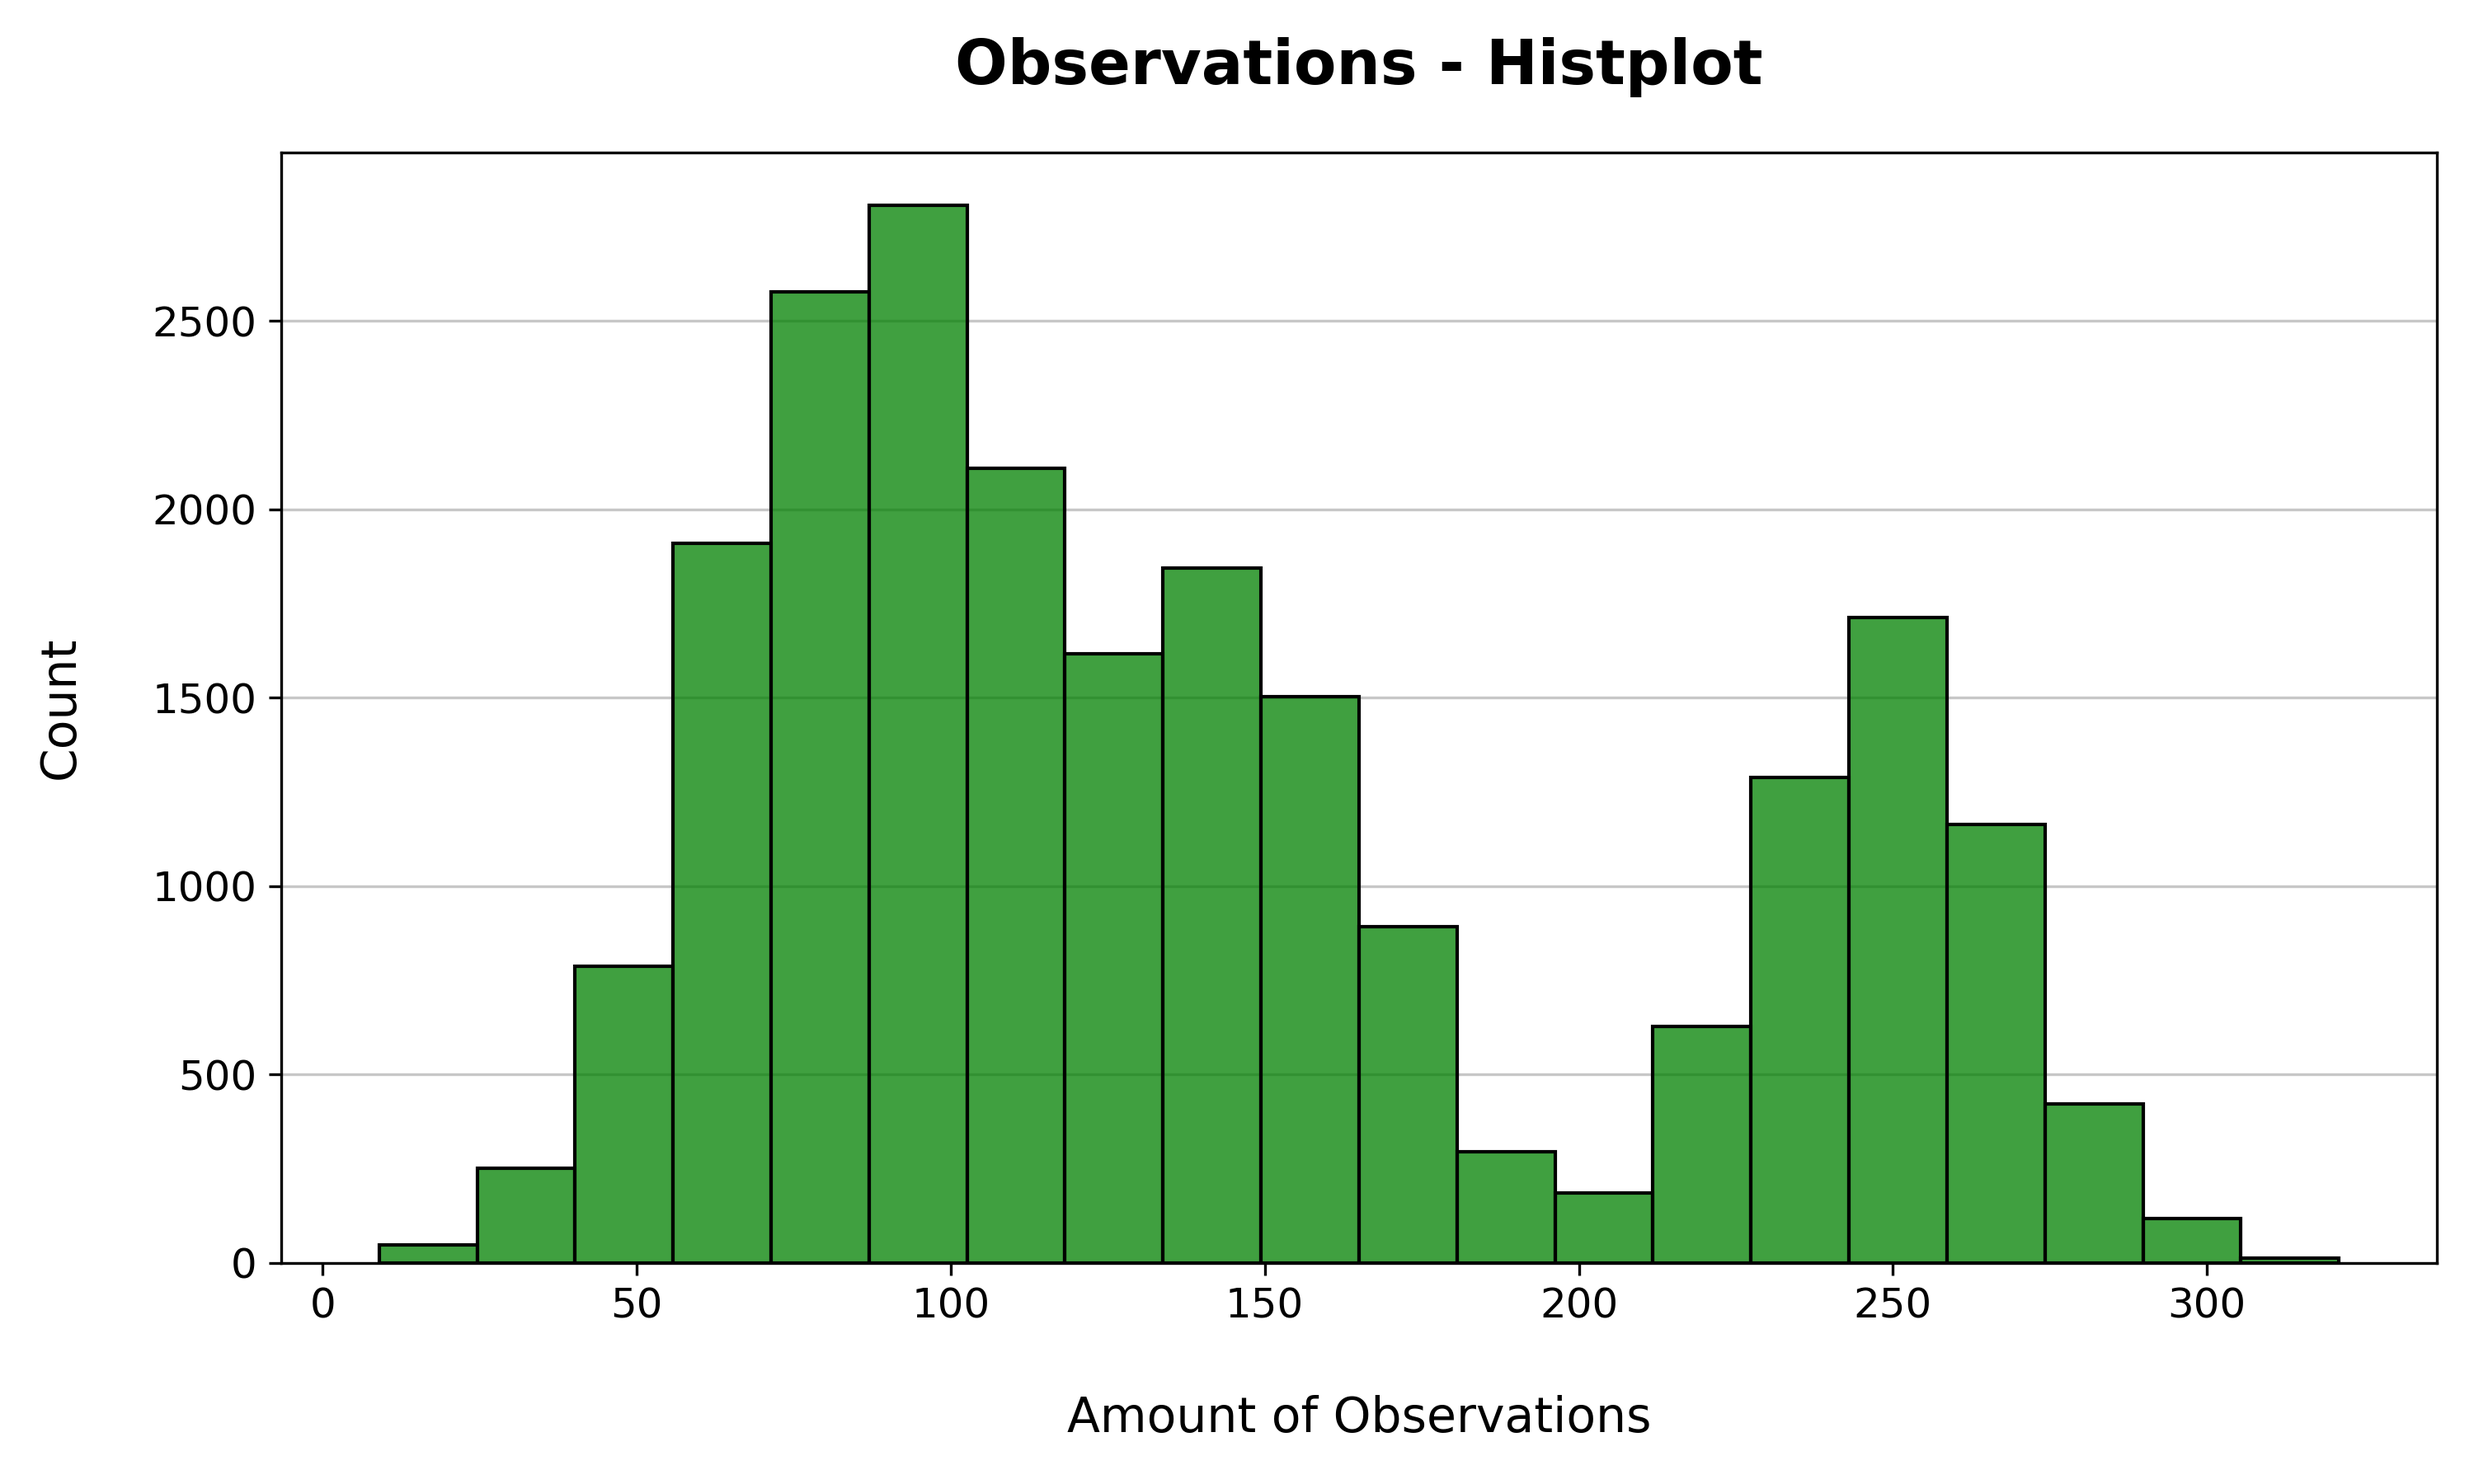
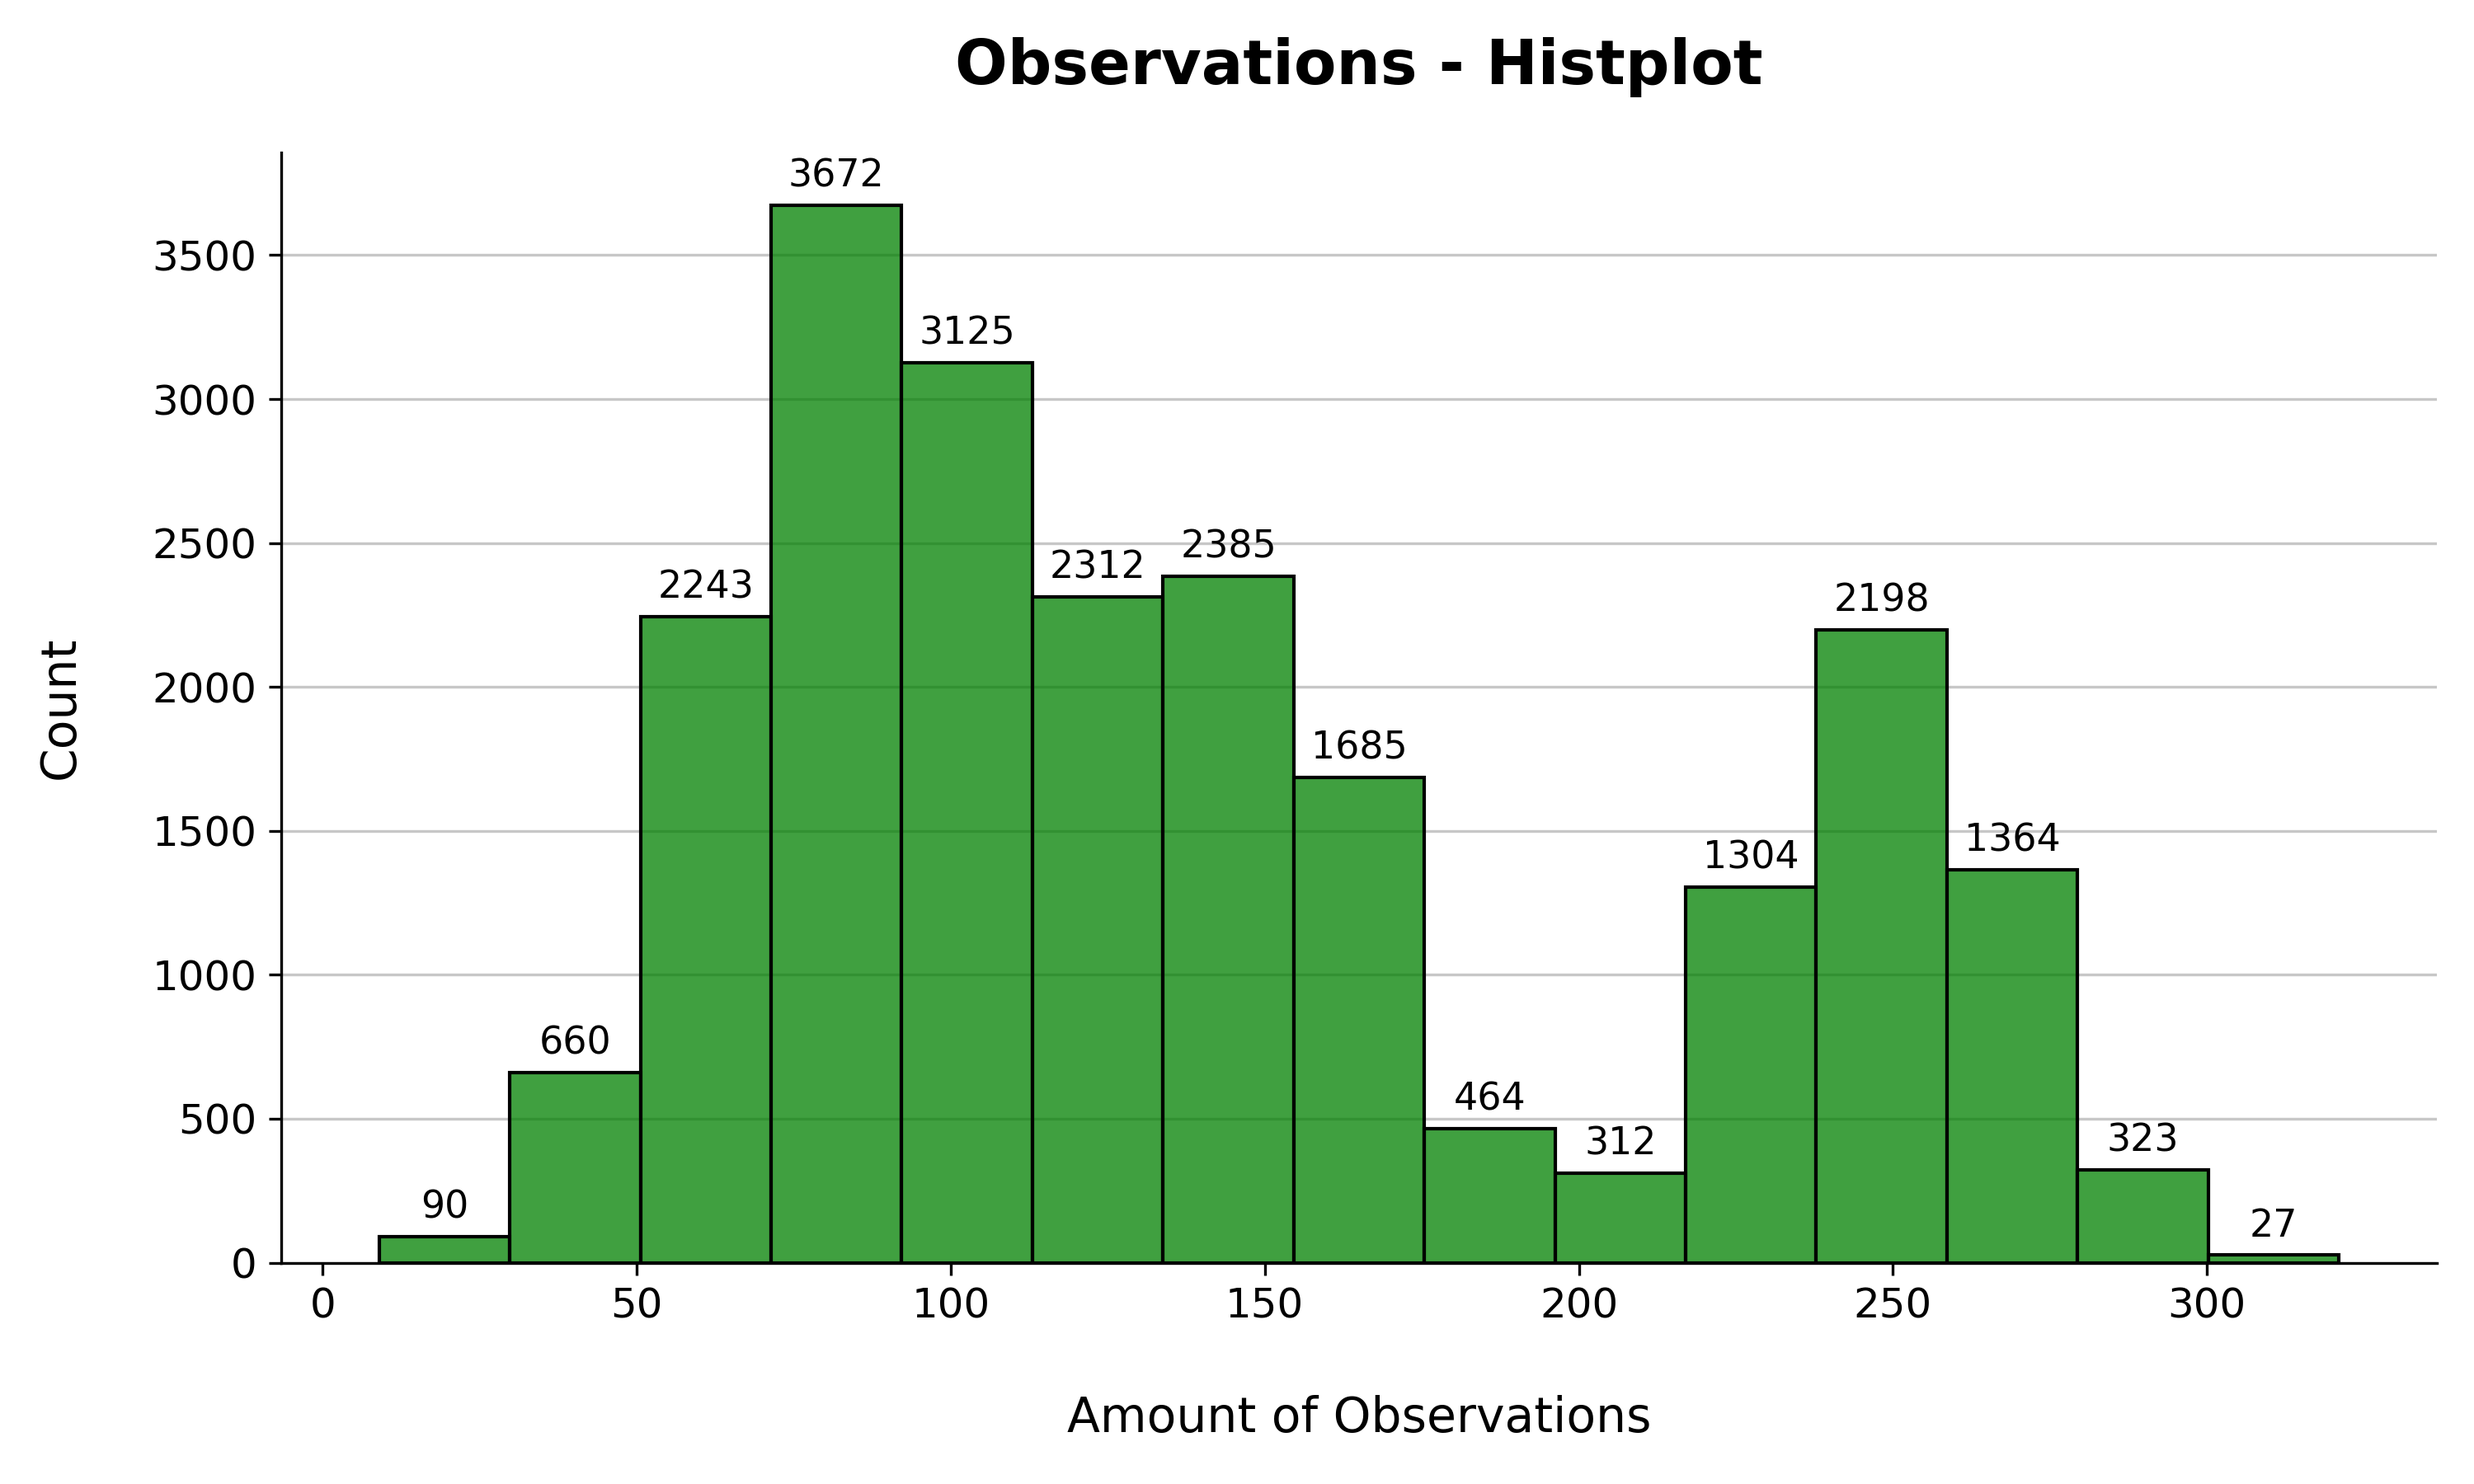
Added projec flow section in docs. Redacted the key findings. Added detailed analysis of endangered species by park

diff --git a/visualization.py b/visualization.py
@@ -14,27 +14,7 @@ in_danger_statuses = ["In Recovery", "Species of Concern", "Threatened", "Endang
 species_with_in_danger_statuses = species[species.conservation_status.isin(in_danger_statuses)]
 endangered_species = species[species.conservation_status == "Endangered"]
 
-# Neutral and engangered count
-neutral_length = len(species[species.conservation_status == "Neutral"])
-in_danger_length = len(species[species.conservation_status != "Neutral"])
-endangered_species_length = len(endangered_species)
-total_observations = observations.observations.sum()
-
-print(f"Found {in_danger_length} species with in danger status, including {endangered_species_length} endangered species. Majority of species - {neutral_length} - didn't have any conservation status.")
-print(f'Total observations: {total_observations/1e6:.1f}M')
-
-# Endangeres species analysis
-endangered_species_obs = observations[observations.scientific_name.isin(endangered_species.scientific_name)]
-endangered_species_amounts = endangered_species_obs.groupby('scientific_name')['observations'].sum().sort_values().reset_index()
-endangered_species_amounts = pd.merge(endangered_species_amounts, species[['scientific_name', 'common_names', 'category']], on='scientific_name', how='left')
-print(endangered_species_amounts)
-
-endangered_species_by_category = endangered_species_amounts.groupby('category')['observations'].count().sort_values(ascending=False).reset_index()
-print(endangered_species_by_category)
-
-
-# Total observations by park
-observations_by_park = observations.groupby('park_name').observations.sum().sort_values(ascending=False).reset_index()
+# Park names and labels
 national_parks_names_ordered = ['Yellowstone National Park', 'Yosemite National Park', 'Bryce National Park', 'Great Smoky Mountains National Park']
 national_parks_labes_ordered = ['Yellowstone', 'Yosemite', 'Bryce', 'Great Smoky Mountains']
 park_palette = {
@@ -43,6 +23,43 @@ park_palette = {
     'Bryce National Park': '#D35400',
     'Great Smoky Mountains National Park': '#2E86C1'
 }
+
+# Neutral and engangered count
+neutral_length = len(species[species.conservation_status == "Neutral"])
+in_danger_length = len(species[species.conservation_status != "Neutral"])
+endangered_species_length = len(endangered_species)
+
+# Useful aggregates
+total_observations = observations.observations.sum()
+observations_median = round(observations.observations.median(), 0)
+
+print(f"Found {in_danger_length} species with in danger status, including {endangered_species_length} endangered species. Majority of species - {neutral_length} - didn't have any conservation status.")
+print(f'Total observations: {total_observations/1e6:.1f}M')
+print(f'Observations median: {observations_median}')
+
+# Endangeres species analysis
+endangered_species_obs = observations[observations.scientific_name.isin(endangered_species.scientific_name)]
+endangered_species_amounts = endangered_species_obs.groupby('scientific_name')['observations'].sum().sort_values().reset_index()
+endangered_species_amounts = pd.merge(endangered_species_amounts, species[['scientific_name', 'common_names', 'category']], on='scientific_name', how='left')
+# print(endangered_species_amounts)
+endangered_species_by_category = endangered_species_amounts.groupby('category')['observations'].count().sort_values(ascending=False).reset_index()
+# print(endangered_species_by_category)
+
+# Endangered species analysis by park with export to csv
+endangered_species_by_park = []
+for park in national_parks_names_ordered:
+    endangered_species_obs_in_park = endangered_species_obs[endangered_species_obs.park_name == park]
+    endangered_species_amounts_in_park = endangered_species_obs_in_park.groupby(['scientific_name', 'park_name'])['observations'].sum().sort_values().reset_index()
+    endangered_species_amounts_in_park = pd.merge(endangered_species_amounts_in_park, species[['scientific_name', 'common_names', 'category']], on='scientific_name', how='left')
+    endangered_species_by_park.append(endangered_species_amounts_in_park)
+    
+endangered_species_by_park_dataframe = pd.concat(endangered_species_by_park, ignore_index=True)
+endangered_species_by_park_dataframe.to_csv('output-data/endangered_species_by_park.csv', index=False)
+
+
+# Plots
+# Total observations by park
+observations_by_park = observations.groupby('park_name').observations.sum().sort_values(ascending=False).reset_index()
 
 plt.figure(figsize=(10, 6))
 ax = plt.subplot(1, 1, 1)
@@ -196,7 +213,7 @@ plt.close()
 plt.figure(figsize=(10,6))
 ax = plt.subplot(1, 1, 1)
 
-sns.histplot(data=observations, x='observations', bins=20, color='green')
+sns.histplot(data=observations, x='observations', bins=15, color='green')
 
 plt.title('Observations - Histplot',  fontsize=18, fontweight='bold', pad=20)
 plt.xlabel('Amount of Observations', fontsize=14, labelpad=20)
@@ -206,6 +223,11 @@ ax.tick_params(axis='both', which='major', labelsize=12)
 ax.yaxis.grid(True, linestyle='-', alpha=0.7)
 ax.set_axisbelow(True)
 
+for container in ax.containers:
+    ax.bar_label(container, fmt='%1d', padding=3, fontsize=11)
+    
+sns.despine()
 plt.tight_layout()
 plt.savefig('plots/7-observations-histplot.png', dpi=300)
 plt.close()
+

diff --git a/README.md b/README.md
@@ -10,10 +10,10 @@
 
 ## Key findings
 
-1. Found 178 species with in danger status, including 15 endangered species. Majority of species - 5363 - didn't have any conservation status.
-2. Total observations: 3.2M
-3. The fewest observations of species with in danger statuses were noted for categories: Reptile, Amphibian and Non-Vascular Plant.
-3. Endangered species analysis (15 species with the most severe conservations status):
+1. Found 178 species with assigned conservation statuses, including 15 endangered (the most severe conservations status) species. Majority of species (5363) lacked any conservation status.
+2. Total amount of observations for all species rounds 3.2 million. The median of observed units for each species is equal to 124, and the most frequent observed range lies lower between 75 and 90 species.
+3. The fewest observations of species with assigned conservation statuses were noted for categories: Reptile, Amphibian and Non-Vascular Plant.
+4. Detailed endangered species analysis [^4]
 
 | id |            scientific_name    | observations  |                 common_names                    |    category    |
 |----| ----------------------------- | ------------- | ------------------------------------------------| -------------- |
@@ -43,13 +43,26 @@
 
 ## Data Analysis
 
-![Yellowstone has 1.4M observations](https://github.com/KarolZG/biodiversity-starter/blob/main/plots/1-total-observations.png "Total Observations by Park")
+![Yellowstone has 1.4M observations](https://github.com/KarolZG/blob/main/plots/1-total-observations.png "Total Observations by Park")
 ![Yellowstone with the highest 5S number values ](https://github.com/KarolZG/biodiversity-starter/blob/main/plots/2-stat-of-park-observations.png "Observation Statistics by Park")
 ![Median for observation around 120 observations ](https://github.com/KarolZG/biodiversity-starter/blob/main/plots/3-stat-of-total-observations.png "Five Number Summary for Observations")
 ![Mode for observation around 100 observations](https://github.com/KarolZG/biodiversity-starter/blob/main/plots/7-observations-histplot.png "Observations Histplot")
 ![Above 140 Species of Concern](https://github.com/KarolZG/biodiversity-starter/blob/main/plots/4-danger-scale.png "Danger Scale")
 ![Species of birds have the highest amount of species in-danger](https://github.com/KarolZG/biodiversity-starter/blob/main/plots/5-categories-in_danger.png "Total Observations by Park")
 ![Reptile, Amphibian and Non-Vascular Plant with the lowest amount of observations](https://github.com/KarolZG/biodiversity-starter/blob/main/plots/6-percentage-in_danger-by-park.png "Distribution of In-Danger Species Observations By Park")
+
+### Project Flow
+
+To optimize the running time I have splitted the project into two python files:
+
+[Data cleaning and export to new csv files](cleanup.py)
+[Data visualization](visualization.py)
+
+and to bring more structure I have created 3 directories:
+
+[Original data](https://github.com/KarolZG/biodiversity-starter/tree/main/input-data)
+[Cleaned data](https://github.com/KarolZG/biodiversity-starter/tree/main/output-data)
+[Created plots](https://github.com/KarolZG/biodiversity-starter/tree/main/plots)
 
 ### Dataframes
 1. Species:
@@ -102,7 +115,7 @@
 
 ### Footnotes
 
-[^1]: *Data source:* [Biodiversity in National Parks](https://www.codecademy.com/paths/bi-data-analyst/tracks/dsf-portfolio-project/modules/dscp-biodiversity-in-national-parks/kanban_projects/biodiversity-in-national-parks-portfolio-project "CodeAcademy Exericse Page")
+[^1]: *Data source:* [Biodiversity in National Parks](https://www.codecademy.com/paths/bi-data-analyst/tracks/dsf-portfolio-project/modules/dscp-biodiversity-in-national-parks/kanban_projects/biodiversity-in-national-parks-portfolio-project "CodeAcademy Exercise Page")
 [^2]: Nan values in conservation status might have been the result of omission, not always the lack of danger indicator. The analysis of observations amount and thresholds could be performed to mitigate this threat.
 [^3]: This approach might not be true, and e.g. status appearing later should be chosen.
-
+[^4]: [Detailed endagnered species analysis by park](https://github.com/KarolZG/biodiversity-starter/blob/main/output-data/endangered_species_by_park.csv)
